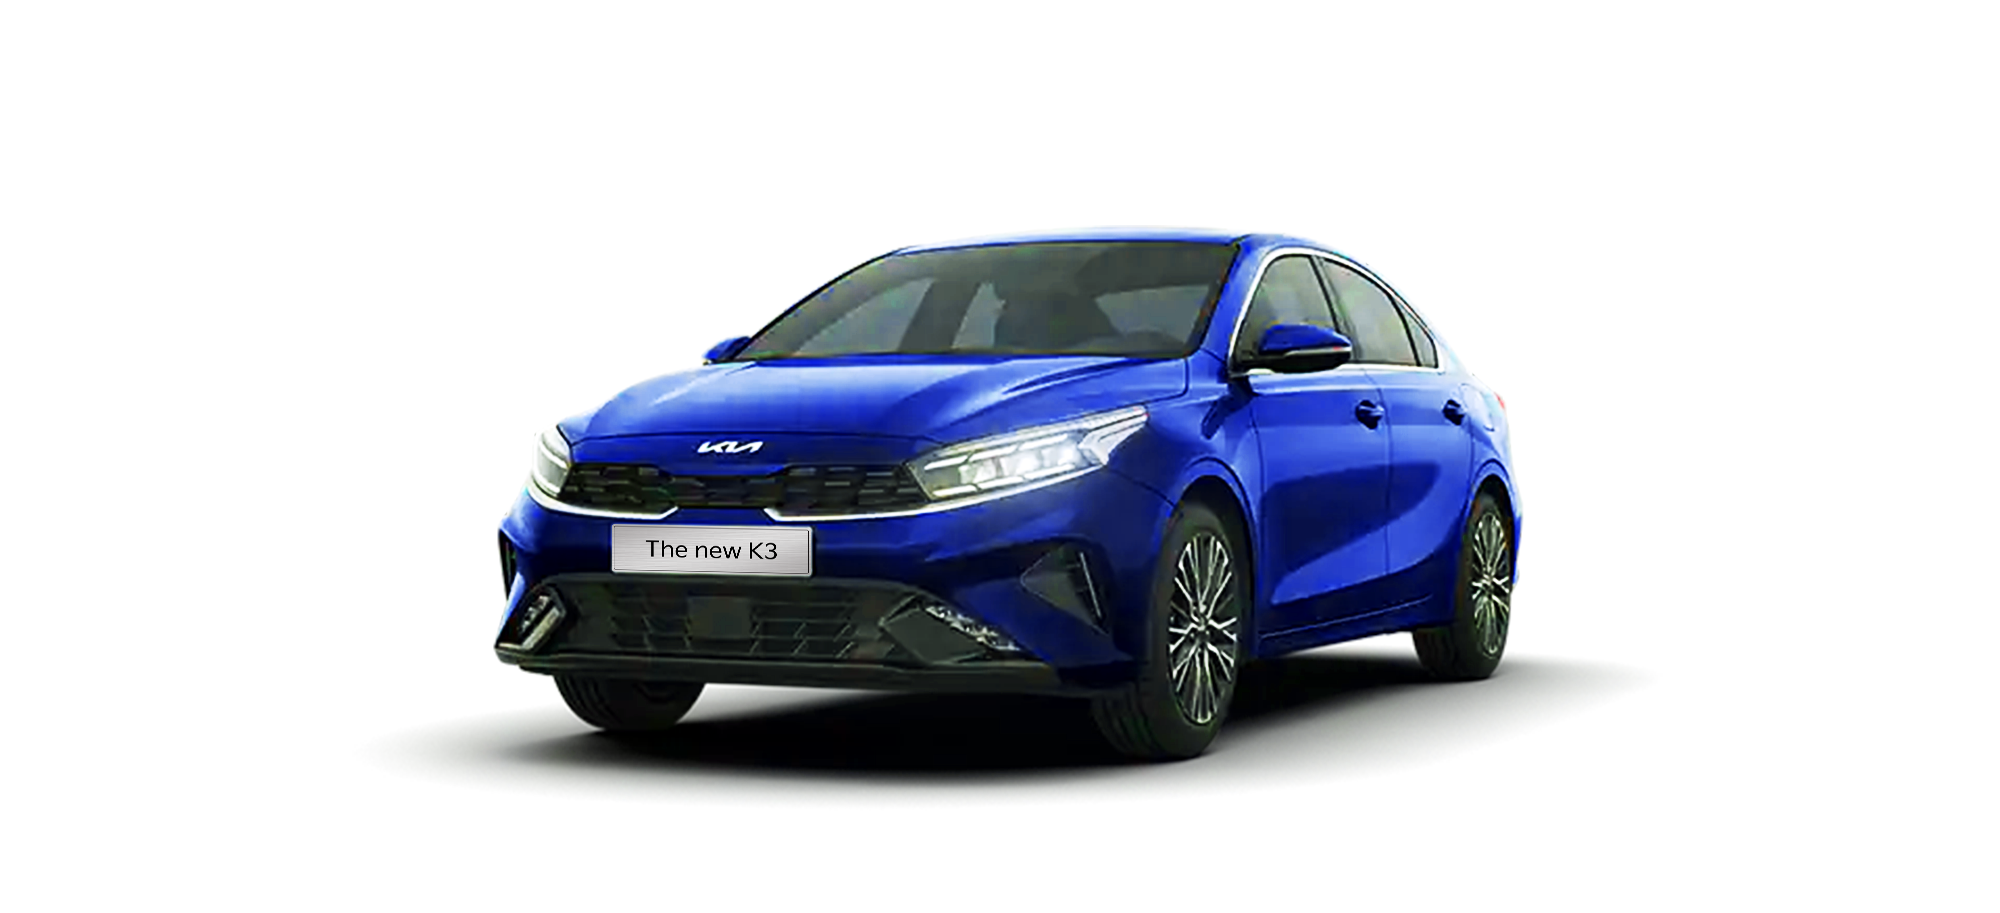
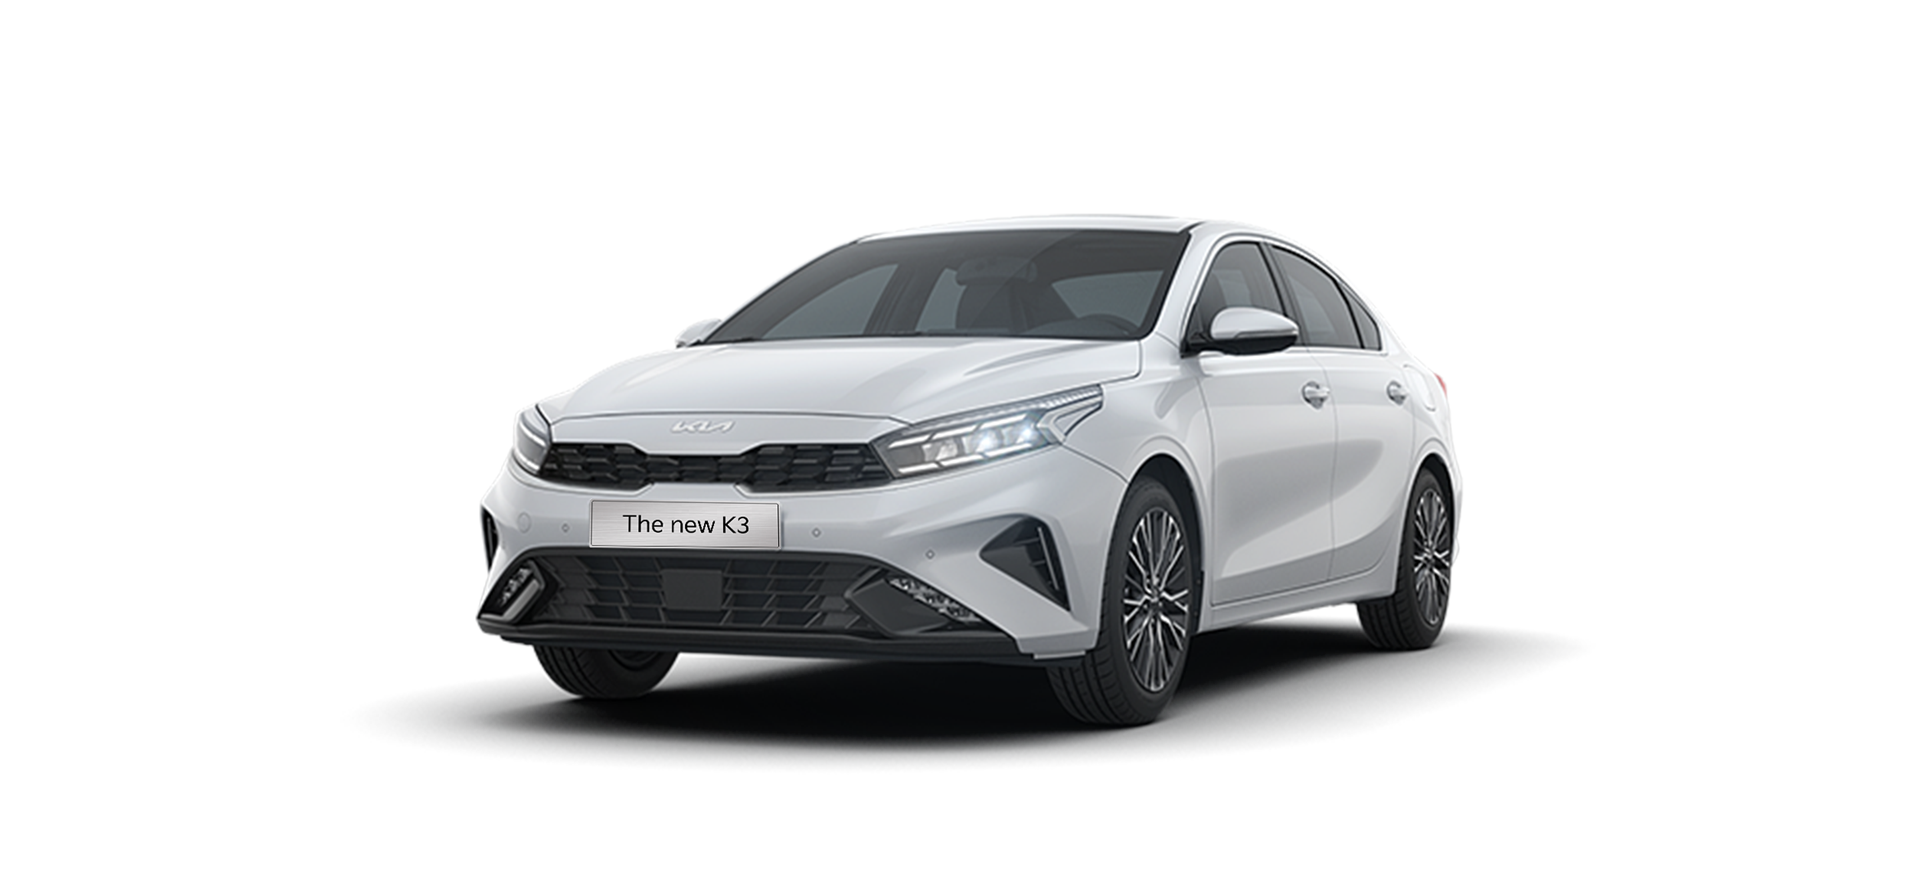
no message

Changed region(s): [[0.25, 0.2466, 0.7812, 0.863]]

diff --git a/platform/themes/main/views/sections/section10.blade.php b/platform/themes/main/views/sections/section10.blade.php
@@ -65,7 +65,7 @@
                                                     @for($i=1;$i<=7;$i++)
                                                         <div id="color{{$i}}" class="container tab-pane {{$i==1 ? 'active' : ''}} item-car-color ">
                                                             <br>
-                                                            <img src="{{ Theme::asset()->url('images/form/xe/premium/'.$i.'.png?v=1') }}"alt="">
+                                                            <img src="{{ Theme::asset()->url('images/form/xe/premium/'.$i.'.png?v=2') }}"alt="">
                                                         </div>
                                                     @endfor
                                                 </div>
